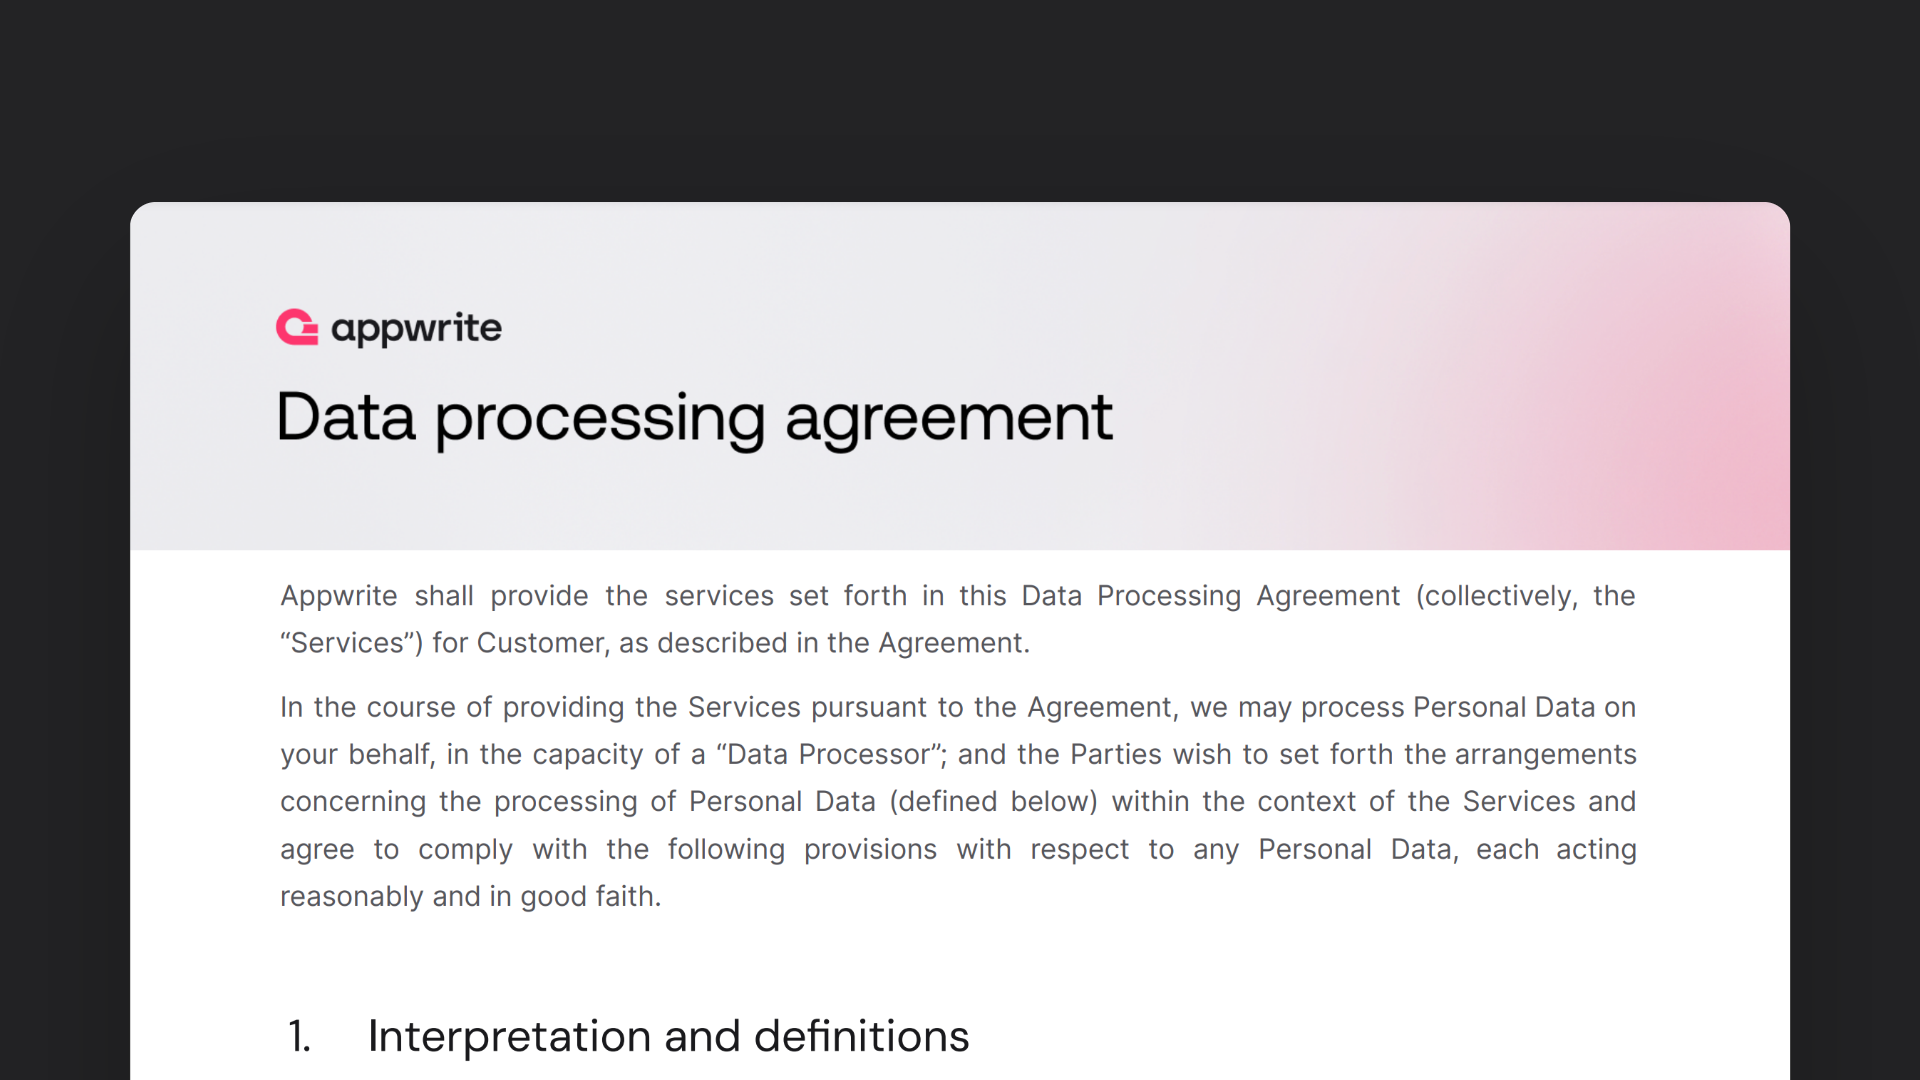
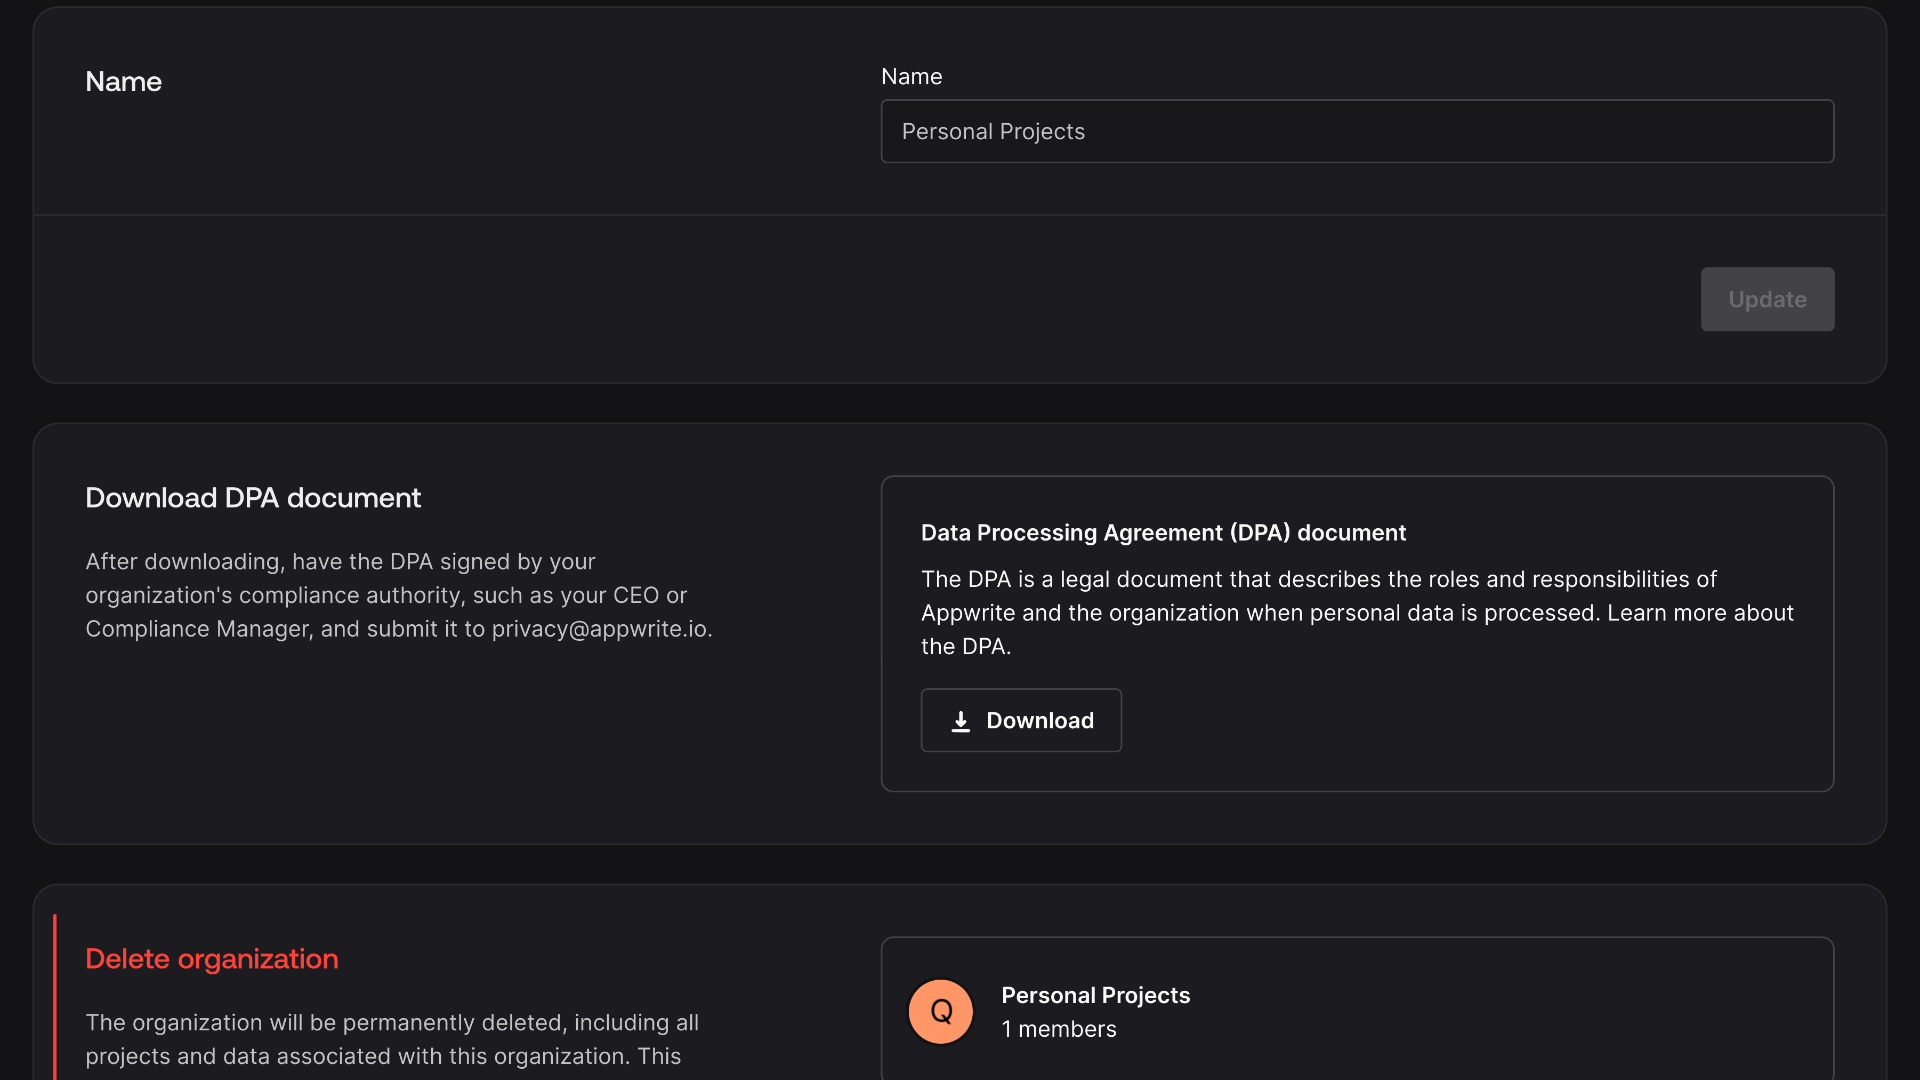
changes from Eldad

diff --git a/src/routes/docs/advanced/security/+layout.svelte b/src/routes/docs/advanced/security/+layout.svelte
@@ -43,7 +43,7 @@
 			items: [
 				{
 					label: 'Authentication',
-					href: '/docs/products/auth/security'
+					href: '/docs/advanced/security/authentication'
 				},
 				{
 					label: 'Encryption',

diff --git a/src/partials/auth-security.md b/src/partials/auth-security.md
@@ -1,0 +1,23 @@
+# Password history  {% #password-history %}
+
+Password history prevents users from reusing recent passwords. This protects user accounts from security risks by enforcing a new password every time it's changed.
+
+Password history can be enabled in the Auth service's **Security** tab on the Appwrite Console. You can choose how many previous passwords to remember up to a maximum of 20 and block users from reusing them.
+
+# Password dictionary {% #password-dictionary %}
+
+Password dictionary protects users from using bad passwords. It compares the user's password to the [10,000 most common passwords](https://github.com/danielmiessler/SecLists/blob/master/Passwords/Common-Credentials/10k-most-common.txt) and throws an error if there's a match. Together with [rate limits](/docs/advanced/platform/rate-limits), password dictionary will significantly reduce the chance of a malicious actor from guessing user passwords.
+
+Password dictionary can be enabled in the Auth service's **Security** tab on the Appwrite Console.
+
+# Password hashing  {% #password-hashing %}
+Appwrite protects passwords by using the [Argon2](https://github.com/P-H-C/phc-winner-argon2) password-hashing algorithm.
+Argon 2 is a resilient and secure password hashing algorithm, which is also the winner of the [Password Hashing Competition](https://www.password-hashing.net/)
+Appwrite combines Argon 2 with the use of techniques such as salting, adjustable work factors, and memory hardness to securely handle passwords.
+
+# Personal data  {% #personal-data %}
+
+Encourage passwords that are hard to guess by disallowing users to pick passwords that contain personal data.
+Personal data includes the user's name, email, and phone number.
+
+Disallowing personal data can be enabled in the Auth service's **Security** tab on the Appwrite Console.
